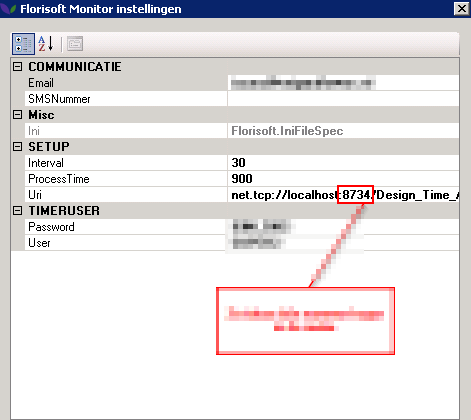
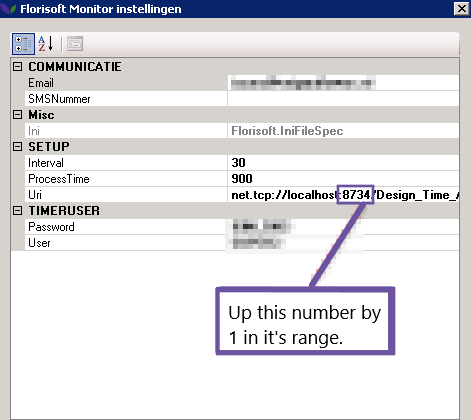
FloriShield EN manual update

Changed region(s): [[0.4459, 0.5881, 0.862, 0.8667], [0.7134, 0.4333, 0.8025, 0.5881]]

diff --git a/BASIS/FloriShield (M96)/M96 Manual FloriShield - EN.md b/BASIS/FloriShield (M96)/M96 Manual FloriShield - EN.md
@@ -1,10 +1,10 @@
-<img src="../../fslogo.png"/>
+<img src="../../fslogo.png">
 
-# Florishield
+# Florisoft Handleiding FloriShield (M96)
 
 ## License
 
-to use the florisoft monitor the license for "*~Florishield*" is required. After activation in the license file, a license update has to be done in the client.
+To use the florisoft monitor the license for "*Florishield*" is required. After activation in the license file, a license update has to be done in the client.
 
 ## Operation
 
@@ -18,73 +18,77 @@ In the future, a ***FloriShield IT Client*** and ***FloriShield Support Client**
 
 To ensure that a Florisoft client can be monitored, this must be enabled for the logged in user. For this, *FS-2000 FloriShield setting* must be set to **True**.
 
-<img src="florishield.eng\foto15.png">
+<details><summary><b>Click here for your example image!</b></summary><img src="florishield.eng/foto15.png"></details>
 
-When this user starts Florisoft, the ***FloriShield service*** is also started and this Florisoft can be controlled by the ***FloriShield Client***
+*To do this follow the steps below*:
 
-<img src="florishield.eng\foto1.png">
+|Step|Explanation|
+|:--|:--|
+|**1**|Click twice on the username in the bottom left corner of the Florisoft navigator screen, this opens a new window.|
+|**2**|Click on the '*inifiles* button in the left side of the screen. This again opens a new screen.|
+|**3**|In the *Inifile* dropdown select '**FS2000**' this updates the table below.|
+|**4**|In the table scroll down to the setting tab '*FloriShield*' and set the setting '*FloriShield*' to true.|
+
+When this user starts Florisoft, the FloriShield service is also started and this Florisoft can be controlled by the ***FloriShield Client***.
+
+<details><summary><b>Click here for your example image!</b></summary><img src="florishield.eng/foto1.png"></details>
 
 The selected icon indicates that the service is active. Make sure that the "MEER" parameter is also included in the shortcut to start the Florisoft Client.
 
-To start the ***FloriShield Client***, a shortcut must be made to Florisoft 2000.exe with the option /MONITOR MEER
+#### Starting the FloriShield Client
 
-C:\fsnet\Splash\florisoft 2000.exe /MONITOR MEER
+|Step|Explanation|
+|:--|:--|
+|**1**|Create a new shortcut to the Florisoft2000 executable with the launch option "**/MONITOR MEER**" (without " "). You can do this by creating a new shortcut on your desktop by rightclicking choosing **new** and then clicking on the option "**shortcut**". <details><summary><b>Click here for your example image!</b></summary><img src="florishield.eng/image21.png"></details>|
+|**2**|You should now be prompted with an input screen where you have to enter the path to the florisoft2000 executable. Most of the times you can use the following path:<br>"*C:\fsnet\Splash\florisoft 2000.exe*".|
+|**3**|Click on the '*next*' button, enter the name for the shortcut and click on the '*finish*' button.|
+|**4**|Click on the newly created shortcut with the right mouse button and click ont the menu option '*properties*'<details><summary><b>Click here for your example image!</b></summary><img src="florishield.eng/image23.png"></details>|
+|**5**|In the input field called '*Target*' you will see the Florisoft2000 path you entered before. In this field you'll need to add the following behind the path " /MONITOR MEER" (Without the " ", but with the whitespace)<details><summary><b>Click here for your example image!</b></summary><img src="florishield.eng/image24.png"></details>|
+|**6**|Click on the '*apply*' button and close the properties screen.|
+|**7**|You may now open the FloriShield client by launching the shortcut.|
 
-When started, you will get the following screen:
+Open the Florisoft backoffice application so that we can check some FloriShield settings.
 
-<img src="florishield.eng\image16.png">
-
-
-And in the Constants under System > FloriShield
-
-<img src="florishield.eng\image17.png">
-
-Email: Not working. We work with Telegram. SMS Number: Not working. We work with Telegram
-Interval: Time in seconds between 2 checks
-ProcessTime: The maximum time a timer process is allowed to last in seconds
-Uri: The address of the monitor service in the Florisof Client default is: net.tcp://localhost:8733/Design_Time_Addresses/Florisoft_Monitor_Service/MonitorService/
-Password: The password of the timer user who must be logged in
-User: Username of the timer user who must be logged in
+|Step|Explanation|
+|:--|:--
+|**1**|Open the constants screen and navigate to the following path:<br>**System**→**FloriShield**<details><summary><b>Click here for your example image!<b></summary><img src="florishield.eng/image26.png">|
+|**2**|**Email:** Not working. We work with Telegram. <br>**Interval:** Time in seconds between 2 checks <br>**ProcessTime:** The maximum time a timer process is allowed to last in seconds <br>**Uri:** The address of the monitor service in the Florisof Client default is: net.tcp://localhost:8733/Design_Time_Addresses/Florisoft_Monitor_Service/MonitorService/ <br> **Password:** The password of the timer user who must be logged in<br> **User:** Username of the timer user who must be logged in|
 
 ## Controls
 
-Available controls:
-1\. Is Florisoft active? If not, Florisoft is started with the set user and password and the timer is started.
-2\. Is the correct user active? If not, a new Floirosft is started with the set user and password and the timer is started.
-3\. Is the timer active? If not, the timer is started.
-4\. Is there any recent timer activity? A process can take up to as long as set in ProcessTimer. If a process has been running for longer than the set time, a notification will be sent to the set email address. No action is being taken yet.
+In this modules the following controls are available:
 
-If all tests are successful, then it will look like this:
-<img src="florishield.eng\image19.png">
+|#|Control|Action|
+|:--|:--|:--|
+|**1**|Florisoft active?|If not, Florisoft is started with the set user and password and the timer is started.|
+|**2**|Is the correct user active?|If not, a new Floirosft is started with the set user and password and the timer is started.|
+|**3**|Is the timer active?|If not, the timer is started.|
+|**4**|Is there any recent timer activity?|A process can take up to as long as set in ProcessTimer. If a process has been running for longer than the set time, a notification will be sent to the set email address. No action is being taken yet.|
 
-> Florisoft has been started
-> The right user is active
-> The Timer is active
-> Timer activity is recent
+If all test were sucessful you should see the same FloriShield like in the image below:
 
-**ATTENTION**
+<details><summary><b>Click here for the example image!</b></summary><img src="florishield.eng/image19.png"></details>
 
-If multiple monitors are to run on the same machine (for example a virtual machine), the port number must be different from each other
+:warning: **Pay attention!!** :warning:
 
-<img src="florishield.eng\image18.png">
+*If multiple monitors are to run on the same machine (for example a virtual machine), the port number must be different from each other*.
 
-The number in the red box should be put one higher.
+<details><summary><b>Click here for the example image!</b></summary><img src="florishield.eng/image18.png"></details>
 
-> **ATTENTION**: In the DOTNET version, communication is no longer via TCP but via HTTP
-> the Windows user running the Florishield Server must be given permissions to listen to HTTP:
-> `netsh http add urlacl url=http://+:8733/Design_Time_Addresses/Florisoft_Monitor_Service/MonitorService/ user=DOMAIN\Username`
+> **ATTENTION:** In the DOTNET version, communication is no longer via TCP but via HTTP the Windows user running the Florishield Server must be given permissions to listen to HTTP: ```netsh http add urlacl url=http://+:8733/Design_Time_Addresses/Florisoft_Monitor_Service/MonitorService/ user=DOMAIN\Username```
+
 
 ## Stopping the FloriShield Client
 
 The FloriShield Client cannot be stopped by clicking on the cross. This is done to prevent someone from accidentally stopping the FloriShield Client. If you click on the cross anyway, the FloriShield Client is minimized to the System tray and continues to check.
 
-<img src="florishield.eng\foto2.png">
+<details><summary><b>Click here for the example image!</b></summary><img src="florishield.eng/foto2.png"></details>
 
-The FloriShield Client can be stopped by right clicking on the icon and choosing "Close Florisoft monitor" (This did not work on my system for some odd reason)
+The FloriShield Client can be stopped by right clicking on the icon and choosing "Close Florisoft monitor" (This did not work on my system for some odd reason).
 
-<img src="florishield.eng\foto3.png">
+<details><summary><b>Click here for the example image!</b></summary><img src="florishield.eng/foto3.png"></details>
+
 After which you have to confirm to stop the FloriShield Client.
-
 The **FloriShield Service** stops automatically when the Florisoft Client is stopped. Stopping the Florisoft Client will take a little longer, because all connections to the **FloriShield Service** must be stopped.
 
 ## Notifications
@@ -95,9 +99,9 @@ The FloriShield Client sends various messages to Telegram users (See how to conf
 
 The ***FloriShield Client*** runs along with *scheduled updates*. As soon as a scheduled update is scheduled, the FloriShield Client will also pick it up, just like the Florisoft Client running on the machine in question. At the set time, both the Florisoft Client and the FloriShield Client are closed, with the difference that the FloriShield Client is instructed to restart.
 
-The following screen is displayed:
+*The following screen is displayed:*
 
-<img src="florishield.eng\foto4.png">
+<details><summary><b>Click here for the example image!</b></summary><img src="florishield.eng/foto4.png"></details>
 
 After the scheduled update has ended, a restart of the ***FloriShield Client*** will take place, which immediately performs the update, as happens with any Florisoft Client. After the update, the ***FloriShield Client*** will restart and it will start Florisoft and the timer as part of the set controls.
 
@@ -105,74 +109,44 @@ After the scheduled update has ended, a restart of the ***FloriShield Client*** 
 
 To set up Telegram, you have to go through a number of steps.
 
-### 1. Create Telegram account
+### Configuring Telegram
 
-In your browser go to: https://web.telegram.org/#/login
-Enter the correct country and mobile number here that you want to use to connect your bot. Pleasenot, use an existing numbers, because an SMS with the login code will be sent to it.
+#### Creating a Telegram account
 
-<img src="florishield.eng\foto5.png">
+|Step|Explanation|
+|:--|:--|
+|**1**|Open your webbrowser and go to the following link:<br>https://web.telegram.org/#/login|
+|**2**|Enter the correct country and celphone number that you want to connect to the Telegram bot. **Do however use an existing number that you own, because you will receive a verification login code via SMS.** <details><summary><b>Click here for the example image!</b></summary><img src="florishield.eng/foto5.png"></details>|
+|**3**|After entering the phonenumber click on '*next*'. Then enter a authorization code and other required data. You should now be redirected to the web-version of the Telegram-app.<details><summary><b>Click here for the example image!</b></summary><img src="florishield.eng/foto7.png"></details>|
 
-After entering the number, click on "next(volgende)". Enter the received authorization code and then your details. You are now in the web version of the Telegram App.
+##### Creating a Telegram bot
 
-<img src="florishield.eng\foto6.png">
+|Step|Explanation|
+|:--|:--|
+|**1**|Now that you are logged in on Telegram you are able to create Telegram bots. To do this you will need to start a new conversation with the **BotFather**. Search for the user @botfather in the searchbar, there should only be one result.<details><summary><b>Click here for the example image!</b></summary><img src="florishield.eng/foto7.png"></details>|
+|**2**|Now click on **begin**.<details><summary><b>Click here for the example image!</b></summary><img src="florishield.eng/foto8.png"></details>|
+|**3**|You have now started a conversation with the BotFather.|
+|**4**|Now send the following command": /newbot (including the "/")<details><summary><b>Click here for the example image!</b></summary><img src="florishield.eng/foto9.png"></details>|
+|**5**|You will be asked to name your bot. Enter the desired name.|
+|**6**|You will then be asked for the username of your newly created bot. There cannot be apces in it and it must end with "bot", which is not case sensitive and everything can be in front of it, the chosen name must be a unique one in Telegram.|
+|**7**|The bot has been created and you will receive the API Token, we will need this token later.<details><summary><b>Click here for the example image!</b></summary><img src="florishield.eng/foto11.png"></details>|
 
-### Create a Telegram bot
+#### Log in to your Telegram bot
 
-Now that you are logged in to Telegram you can create a bot. To do this, start a new conversation with the "BotFather". Enter @botfather in the Search Field and click on the only result.
+To log in to your newly created Telegram bot, you'll need to configure some settings in Florisoft. So open your Florisoft backoffice application if you haven't already.
 
-<img src="florishield.eng\foto7.png">
+|Step|Explanation|
+|:--|:--|
+|**1**|Click on the **maintenance** in the top bar of the navigator screen.Click on the dropdown option '**Setup system**. This opens small screen within this screen click on the folder **Telegram IT Bot**. Fill out the textfield with the Telegram API key we got in the previous chapter.<details><summary><b>Click here for the example image!</b></summary><img src="florishield.eng/image27.png"></details>|
+|**2**|Next, the FloriShield IT Bot must be turned on for 1 user. Only if this Florisoft is online, users can login to the bot to receive messages.|
+|**3**|Now start the Florisoft with the user with the FloriShield IT Bot turned on.e<details><summary><b>Click here for the example image!</b></summary><img src="florishield.eng/image20.png"></details>|
+|**4**|In Telegram, type your bot's username in the search box and click on the desired result.<details><summary><b>Click here for the example image!</b></summary><img src="florishield.eng/foto12.png"></details>|
+|**5**|At the bottom, click on "Begin"<details><summary><b>Click here for the example image!</b></summary><img src="florishield.eng/foto13.png"></details>|
+|**6**|Now send your username and then your password.<details><summary><b>Click here for the example image!</b></summary><img src="florishield.eng/foto12.png"></details>|
+|**7**|You are now logged in to the bot.|
+|**8**|:warning:**Note!** A known Florisoft username and password must be entered (system user) and the user must not be blocked.|
+|**9**|To unsubscribe, send "/unsubscribe" to the bot and you will be removed from the recipient list.|
 
-Now at the bottom, click on "Begin"
+#### Telegram messages from Florisoft.
 
-<img src="florishield.eng\foto8.png">
-
-You can now start a "conversation" with the BotFather.
-
-<img src="florishield.eng\foto9.png">
-
-Now send the following command": /newbot (including the "/")
-
-You will be asked to name your bot. Enter the desired name.
-
-You will then be asked for the username of your newly created bot. There cannot be apces in it and it must end with "bot", which is not case sensitive and everything can be in front of it, the chosen name must be a unique one in Telegram.
-
-The bot has been created and you will receive the API Token, we need it:
-
-<img src="florishield.eng\foto10.png">
-
-### Log in to your Telegram bot
-
-To log in to the newly created Telegram bot, this must be set in Florisoft.
-
-Go maintenance -> setup system -> Telegram IT Bot
-
-
-<img src="florishield.eng\foto11.png">
-
-Next, the FloriShield IT Bot must be turned on for 1 user. Only if this Florisoft is online, users can login to the bot to receive messages.
-
-<img src="florishield.eng\image20.png">
-
-Now start the Florisoft with the user with the FloriShield IT Bot turned on.
-
-In Telegram, type your bot's username in the search box and click on the desired result.
-
-<img src="florishield.eng\foto12.png">
-
-At the bottom, click on "Begin"
-
-<img src="florishield.eng\foto13.png">
-
-Now send your username and then your password
-
-<img src="florishield.eng\foto14.png">
-
-You are now logged in to the bot.
-
-**Note!** A known Florisoft username and password must be entered (system user) and the user must not be blocked. 
-
-To unsubscribe, send "/unsubscribe" to the bot and you will be removed from the recipient list.
-
-## 4. Telegram messages from FloriShield
-
-If FloriShield now detects or resolves a problem, the text from the Invoice texts is sent to all registered Telegram users. No additional settings are required for this. As soon as the Telegram Bot API key has been entered and the FloriShield is restarted, the messages are sent.
+If FloriShield now detects or resolves a problem, the text from the Invoice texts is sent to all registered Telegram users. No additional settings are required for this. As soon as the Telegram Bot API key has been entered and the FloriShield is restarted, the messages are sent

diff --git a/BASIS/FloriShield (M96)/M96 Handleiding Florishield - NL.md b/BASIS/FloriShield (M96)/M96 Handleiding Florishield - NL.md
@@ -40,6 +40,15 @@ Om te zorgen dat een Florisoft client gemonitord kan worden dient dit aangezet t
 
 <details><summary><b>Klik hier voor uw afbeelding</b></summary><img src=".FloriShield.docx/media/image1.png"></details>
 
+*Volg hiervoor de onderstaande stappen*:
+
+|Stap|Uitleg|
+|:--|:--|
+|**1**|Klik tweemaal op de gebruikersnaam links onder in de Florisoft Navigator. Dit opent een nieuw scherm.|
+|**2**|Klik nu op de knop '*inifiles*' aan de linkerkant van het scherm. Dit opent weer een nieuw scherm|
+|**3**|Selecteer nu in de '*inifile*' drop down '**FS2000**'. Dit update de onderstaand tabel.|
+|**4**|Scroll nu door naar de het instellingen tabje FloriShield en zet hier de FloriShield instelling op '**True**'. |
+
 Als deze gebruiker Florisoft start, wordt de **FloriShield service** mee gestart en kan deze Florisoft gecontroleerd worden door de **FloriShield Client.**
 
 <details><summary><b>Klik hier voor uw afbeelding</b></summary><img src=".FloriShield.docx/media/image2.png"></details>
